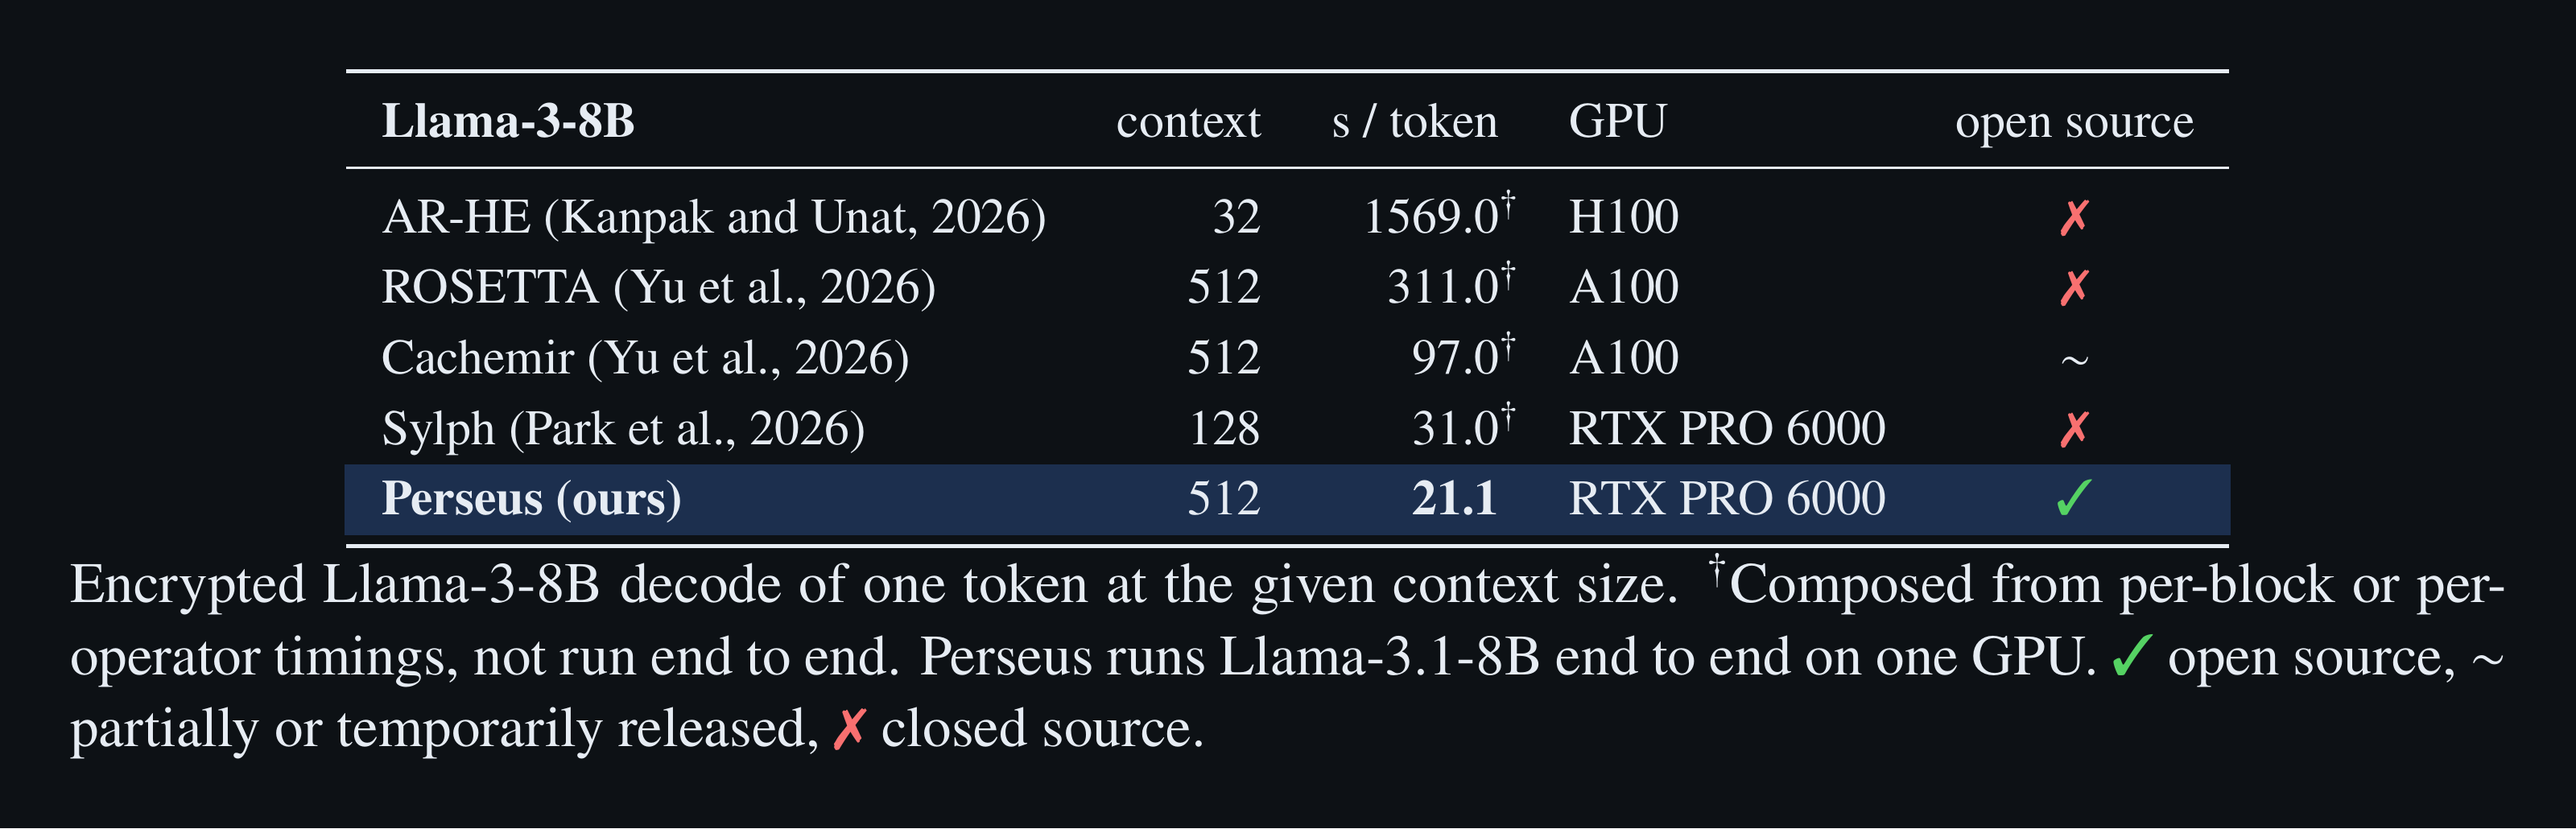
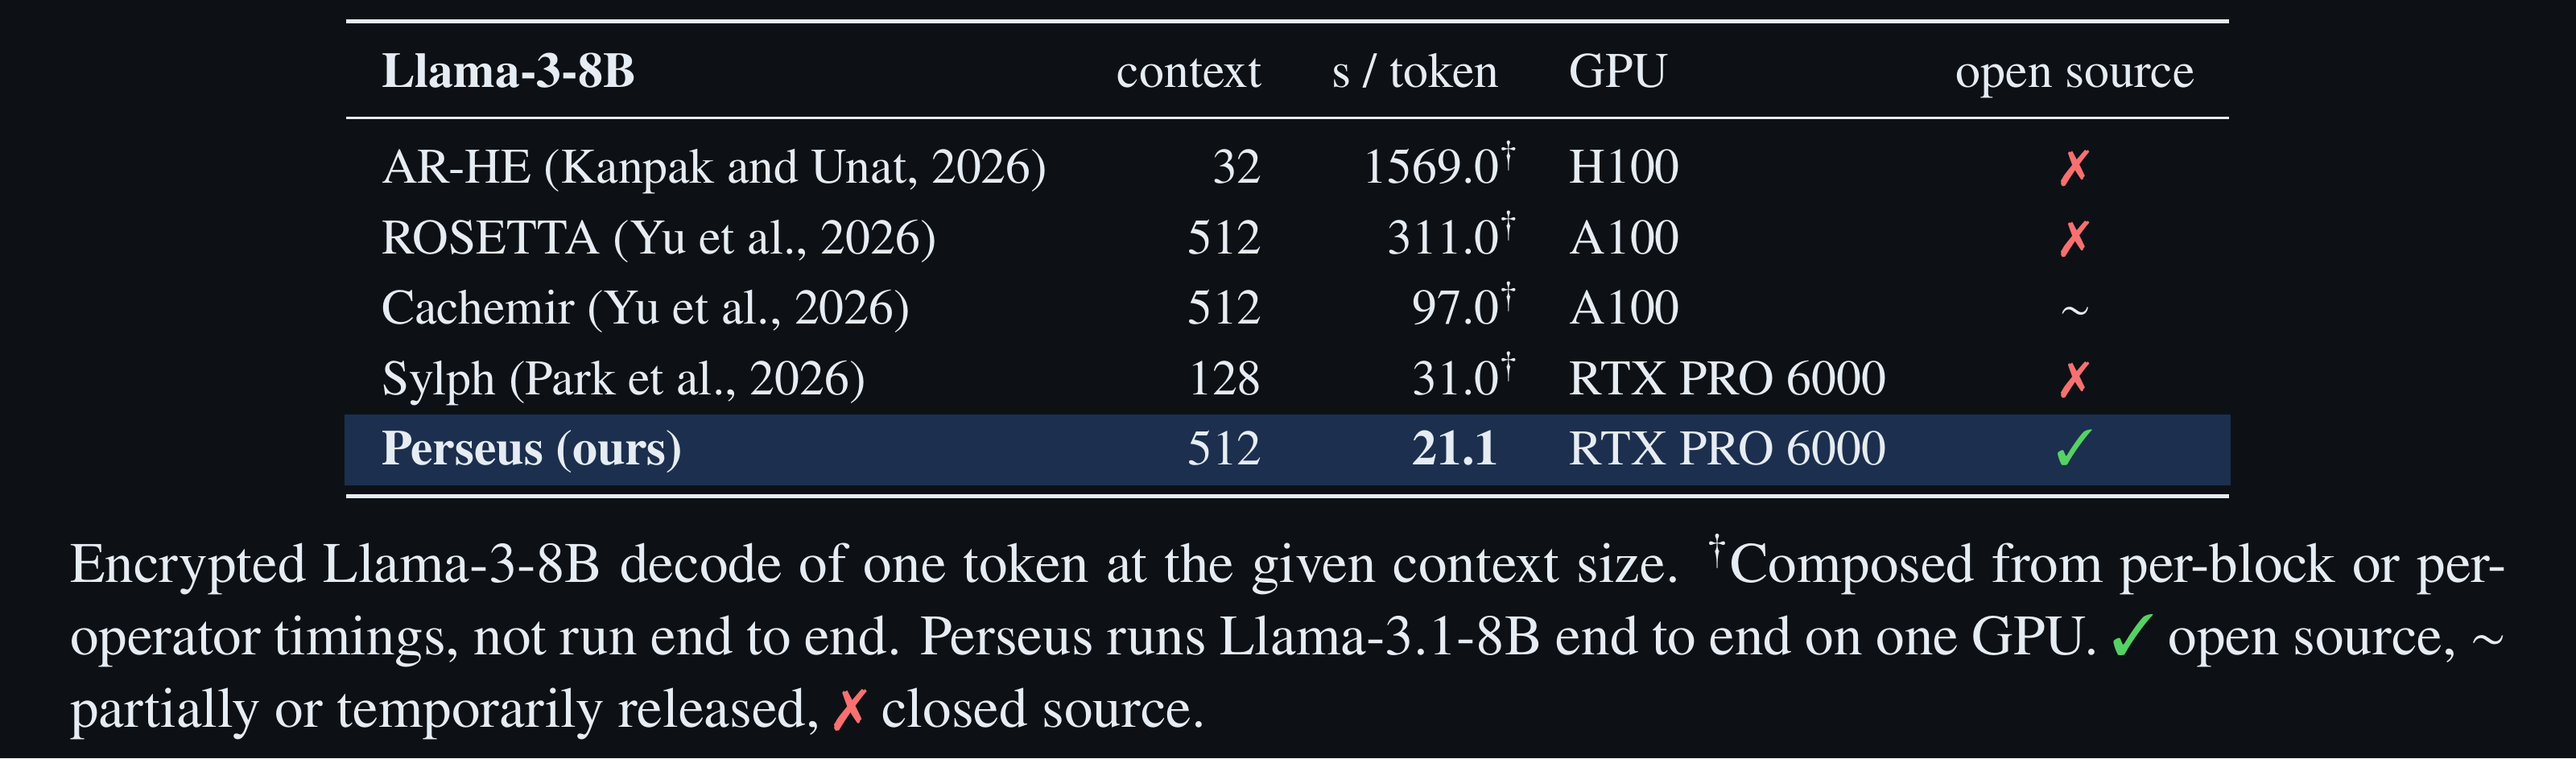
README: tighter table spacing

Changed region(s): [[0.0312, 0.0615, 0.9688, 0.9841], [0.125, 0.0, 0.875, 0.0308]]

diff --git a/assets/paper-tables.tex b/assets/paper-tables.tex
@@ -1,7 +1,8 @@
 % The paper's comparison tables for README.md, one page per table. Render: bash assets/render.sh paper-tables, which writes
 % paper-tables-<page>-{light,dark}.png in the order of the pages line below. \darkmode switches the palette.
 % pages: overview llama-prefill llama-decode gpt2 vit bert
-\documentclass[border=14pt,varwidth=17.2cm,multi=tbl]{standalone}
+% border: 14pt left and right, 4pt top and bottom (stacked in the README, the tables sit close together)
+\documentclass[border={14pt 4pt 14pt 4pt},varwidth=17.2cm,multi=tbl]{standalone}
 \usepackage{newtxtext,newtxmath}
 \usepackage{booktabs,xcolor,colortbl,pifont}
 \ifdefined\darkmode
@@ -19,7 +20,7 @@
 \newcommand{\no}{\textcolor{nocol}{\ding{55}}}
 \newcommand{\semi}{$\sim$}
 \newcommand{\nt}[1]{\rlap{$^{#1}$}}
-\newcommand{\tcap}[1]{\vspace{10pt}\begin{minipage}{\linewidth}\fontsize{11.5}{14.5}\selectfont #1\end{minipage}}
+\newcommand{\tcap}[1]{\par\vspace{6pt}\begin{minipage}{\linewidth}\fontsize{11.5}{14.5}\selectfont #1\end{minipage}}
 \newcommand{\legend}{\yes\ open source, \semi\ partially or temporarily released, \no\ closed source.}
 \newenvironment{tbl}{\centering\setlength{\tabcolsep}{7pt}\renewcommand{\arraystretch}{1.18}}{}
 \newcolumntype{P}{>{\columncolor{ours}[\dimexpr\tabcolsep+0.3pt\relax][\dimexpr\tabcolsep+0.3pt\relax]}r}

diff --git a/README.md b/README.md
@@ -61,9 +61,7 @@ ours where the code is released.
       <img src="assets/paper-tables-llama-prefill-light.png" alt="Encrypted Llama-3-8B prefill of a 128-token prompt, seconds. MOAI 3592.0, NEXUS 829.0, Euston 484.0, STIP 406.6 (composed timings, amortized over a batch); Odin 366.4 on H100; Cerium 347.5 (replicated on RTX PRO 6000); Sylph 116.0 (composed); Perseus 111.0 on RTX PRO 6000, open source." width="707">
     </picture>
   </a>
-</p>
-
-<p align="center">
+  <br>
   <a href="assets/paper-tables-llama-decode-light.png">
     <picture>
       <source media="(prefers-color-scheme: dark)" srcset="assets/paper-tables-llama-decode-dark.png">
@@ -71,9 +69,7 @@ ours where the code is released.
       <img src="assets/paper-tables-llama-decode-light.png" alt="Encrypted Llama-3-8B decode of one token, seconds per token at a context size. AR-HE 1569.0 at 32, ROSETTA 311.0 at 512, Cachemir 97.0 at 512, Sylph 31.0 at 128 (all composed timings); Perseus 21.1 at 512 on RTX PRO 6000, open source." width="707">
     </picture>
   </a>
-</p>
-
-<p align="center">
+  <br>
   <a href="assets/paper-tables-gpt2-light.png">
     <picture>
       <source media="(prefers-color-scheme: dark)" srcset="assets/paper-tables-gpt2-dark.png">
@@ -81,9 +77,7 @@ ours where the code is released.
       <img src="assets/paper-tables-gpt2-light.png" alt="Encrypted GPT-2 small. AR-HE: 128-token prefill 18520.0 s, decode 544.0 s per token at context 33. ROSETTA: decode 78.6 s at 512 (composed). EncryptedLLM: decode 68.0 s at 128. Perseus: prefill 33.9 s, decode 3.78 s per token at context 32, on RTX PRO 6000, open source." width="707">
     </picture>
   </a>
-</p>
-
-<p align="center">
+  <br>
   <a href="assets/paper-tables-vit-light.png">
     <picture>
       <source media="(prefers-color-scheme: dark)" srcset="assets/paper-tables-vit-dark.png">
@@ -91,9 +85,7 @@ ours where the code is released.
       <img src="assets/paper-tables-vit-light.png" alt="Encrypted ViT inference of one image, seconds. FIONA, ViT-S/16, 374.4 on a 48-core CPU (amortized over a batch of 32, retrained polynomial model); ATLAS, ViT-B/16, 2259.0 on RTX 4090; Perseus, ViT-B/16, 123.2 on RTX PRO 6000, open source." width="707">
     </picture>
   </a>
-</p>
-
-<p align="center">
+  <br>
   <a href="assets/paper-tables-bert-light.png">
     <picture>
       <source media="(prefers-color-scheme: dark)" srcset="assets/paper-tables-bert-dark.png">
